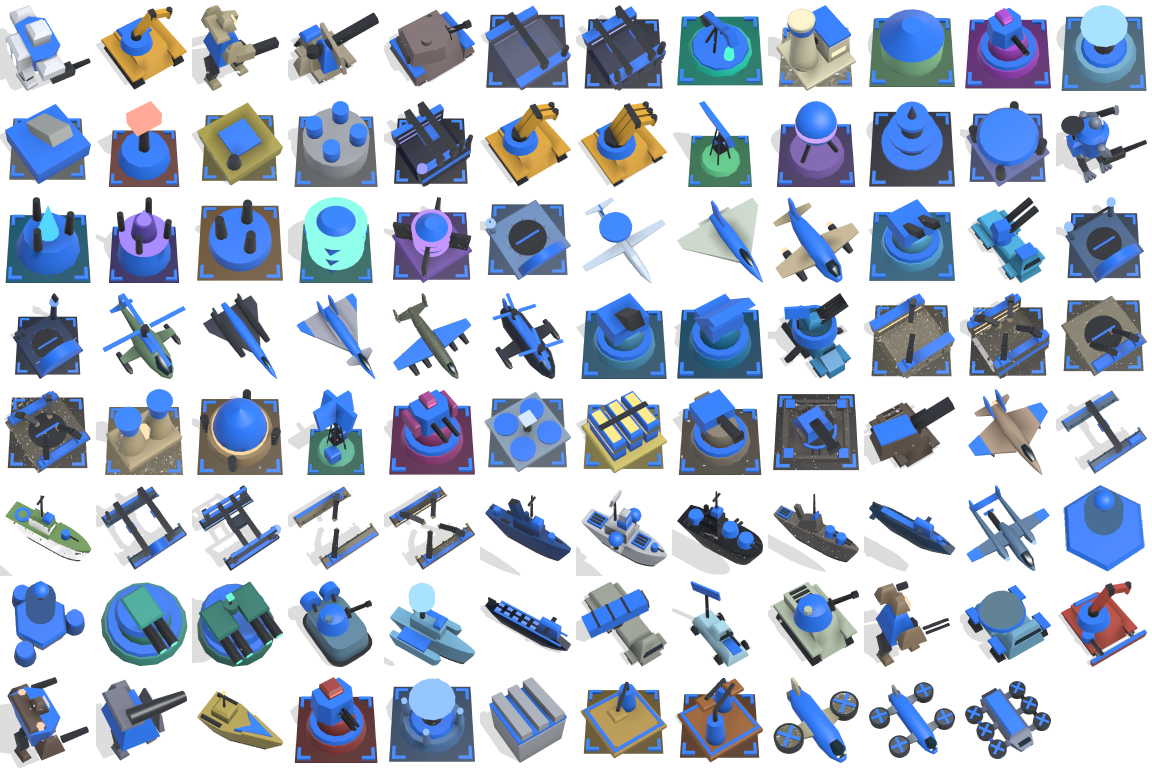
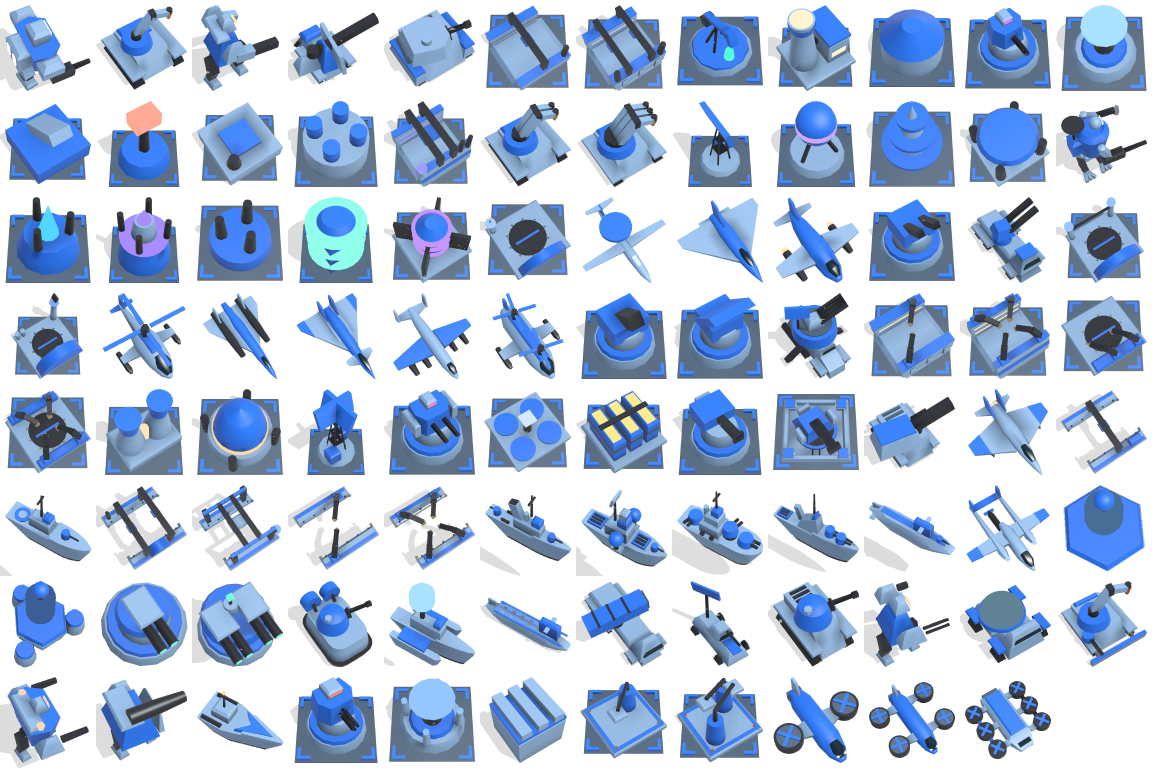
Give every unit one faction hull color, with the team's color on the trim
Every unit and structure's body is now the same light blue, with a little of
the team's color mixed in; the team shows on the trim as before. The hull
colors each family had of its own, and the darkening by tier, are gone, so a
unit is told from another by its shape. Glowing parts keep their own colors.

Removes the three tests that held the old rule (a hull color for each surface
warship, yellow builders and cyan anti-air, engineers one yellow whatever
their tier) and adds one that checks every unit wears the faction's hull
color. The portraits are redrawn to match.

diff --git a/src/render/instances.rs b/src/render/instances.rs
@@ -69,10 +69,11 @@ pub(super) const STRUCTURE_SHARE: f32 = 0.9;
 /// world units, half of it below the ground so that it sits flush on a slope.
 const APRON_WIDTH: f32 = 1.1;
 const APRON_HEIGHT: f32 = 2.4;
-/// Bare armor, before it takes on a little of the team's and the blueprint's color.
-const ARMOR: [f32; 3] = [0.50, 0.52, 0.55];
-/// How much of the blueprint's tint, then the team's color, the armor takes on.
-const ARMOR_TINT: f32 = 0.85;
+/// The faction's hull color, a light blue: every unit and structure's body is this, whatever it
+/// is and whoever's, and the team's color is on its trim. Until 2026-11-23 each kind of unit had
+/// a hull color of its own, a yellow engineer beside a tan tank, which read as many factions.
+const FACTION_HULL: [f32; 3] = [0.62, 0.76, 0.90];
+/// How much of the team's color the hull takes on.
 const ARMOR_TEAM: f32 = 0.06;
 /// How far glowing parts are lifted towards white.
 const GLOW_WHITEN: f32 = 0.25;
@@ -112,20 +113,9 @@ fn mix(from: [f32; 3], to: [f32; 3], share: f32) -> [f32; 3] {
     std::array::from_fn(|channel| from[channel] + (to[channel] - from[channel]) * share)
 }
 
-/// The armor of a unit: grey, with a little of what it is and whose it is.
-fn armor(team: [f32; 3], tint: Option<[f32; 3]>) -> [f32; 3] {
-    mix(tint.map_or(ARMOR, |tint| mix(ARMOR, tint, ARMOR_TINT)), team, ARMOR_TEAM)
-}
-
-/// How much of its armor's brightness a unit keeps by tech level, from none to T3: higher
-/// tiers are heavier and darker, so that a tier reads on the model as the dots read on its icon.
-const TIER_SHADE: [f32; 4] = [1.0, 1.0, 0.88, 0.76];
-
-/// The color of a unit's body: its armor, darkened by its tier unless it is one of those that
-/// keep one color whatever their tier (`UnitLook::tier_shaded`).
-fn hull_of(team: [f32; 3], look: &UnitLook) -> [f32; 3] {
-    let shade = if look.tier_shaded { TIER_SHADE[usize::from(look.tier.min(3))] } else { 1.0 };
-    armor(team, look.tint).map(|channel| channel * shade)
+/// The color of a unit's body: the faction's hull color, with a little of the team's.
+fn hull_of(team: [f32; 3]) -> [f32; 3] {
+    mix(FACTION_HULL, team, ARMOR_TEAM)
 }
 
 /// A color at full brightness, lifted a little towards white, for parts lit from inside.
@@ -317,7 +307,8 @@ pub(super) fn merge_by_id<T>(previous: &[T], current: &[T], id: impl Fn(&T) -> S
 #[derive(Copy, Clone, Debug, PartialEq)]
 pub struct UnitLook {
     pub shape: Shape,
-    /// Blended lightly into the team color, because the shape already shows what it is.
+    /// The color of its glowing parts, such as lights, cores, and tools: the team's, if none. Its
+    /// body is the faction's hull color whatever this is.
     pub tint: Option<[f32; 3]>,
     /// A structure's height, as a share of its width.
     pub height_share: f32,
@@ -330,11 +321,6 @@ pub struct UnitLook {
     /// footprint: zero for its footprint. From above, units are told apart by their outline and
     /// length, so these keep apart some that share a footprint in the simulation.
     pub length: f32,
-    /// Its tech level, which darkens its armor. Zero from `unit_look`; `unit_looks` sets it.
-    pub tier: u8,
-    /// Whether its armor darkens with its tech level (`TIER_SHADE`): every unit's but the
-    /// engineers', which tell their tiers apart by shape and are all one work yellow.
-    pub tier_shaded: bool,
     /// Whether it stands on a concrete foundation: structures on land, but walls. False from
     /// `unit_look`; `unit_looks` sets it.
     pub apron: bool,
@@ -354,13 +340,12 @@ pub struct TurretMount {
     pub aft: bool,
 }
 
-/// The engineers' work yellow, the same at every tier: their tiers show in how many arms they
-/// carry, one to three, and in their size, drawn a little larger than their footprint at T2 and T3.
+/// The work yellow the engineers' tools glow, the same at every tier.
 const ENGINEER_YELLOW: [f32; 3] = [1.00, 0.70, 0.12];
 
 /// Maps a blueprint to its look. Unknown keys fall back to a plain cube.
 pub fn unit_look(key: &str) -> UnitLook {
-    let look = |shape, tint, height_share| UnitLook { shape, tint, height_share, base: None, size: 0.0, length: 0.0, tier: 0, tier_shaded: true, apron: false, turrets: [None; 3] };
+    let look = |shape, tint, height_share| UnitLook { shape, tint, height_share, base: None, size: 0.0, length: 0.0, apron: false, turrets: [None; 3] };
     let turret = |weapon, at, aft| Some(TurretMount { weapon, at, aft });
     match key {
         "command_rig" => UnitLook { base: Some(Shape::CommanderLegs), ..look(Shape::Commander, Some([1.00, 1.00, 1.00]), 1.0) },
@@ -369,10 +354,10 @@ pub fn unit_look(key: &str) -> UnitLook {
         "geothermal_plant" => look(Shape::GeothermalPlant, Some([0.85, 0.60, 0.25]), 0.7),
         "mass_fabricator" => look(Shape::Fabricator, Some([0.40, 0.95, 0.85]), 1.0),
         "mass_fabricator_t3" => look(Shape::FabricatorT3, Some([0.70, 0.45, 1.00]), 0.8),
-        "t2_engineer" => UnitLook { base: Some(Shape::EngineerHull), length: 19.0, tier_shaded: false, ..look(Shape::EngineerT2, Some(ENGINEER_YELLOW), 1.0) },
-        "t3_engineer" => UnitLook { base: Some(Shape::EngineerHull), length: 23.0, tier_shaded: false, ..look(Shape::EngineerT3, Some(ENGINEER_YELLOW), 1.0) },
+        "t2_engineer" => UnitLook { base: Some(Shape::EngineerHull), length: 19.0, ..look(Shape::EngineerT2, Some(ENGINEER_YELLOW), 1.0) },
+        "t3_engineer" => UnitLook { base: Some(Shape::EngineerHull), length: 23.0, ..look(Shape::EngineerT3, Some(ENGINEER_YELLOW), 1.0) },
         "land_factory_t3" => look(Shape::FactoryT3, Some([0.10, 0.10, 0.20]), 0.85),
-        "t1_engineer" => UnitLook { base: Some(Shape::EngineerHull), tier_shaded: false, ..look(Shape::Engineer, Some(ENGINEER_YELLOW), 1.0) },
+        "t1_engineer" => UnitLook { base: Some(Shape::EngineerHull), ..look(Shape::Engineer, Some(ENGINEER_YELLOW), 1.0) },
         "t1_light_walker" => UnitLook { base: Some(Shape::BotLegs), ..look(Shape::Bot, Some([0.78, 0.70, 0.50]), 1.0) },
         "t1_land_scout" => UnitLook { length: 14.0, ..look(Shape::LandScout, Some([0.75, 0.95, 1.00]), 1.0) },
         "t1_medium_tank" => UnitLook { base: Some(Shape::TankHull), ..look(Shape::Tank, Some([0.80, 0.85, 0.70]), 1.0) },
@@ -475,7 +460,6 @@ pub fn unit_looks(blueprints: &BlueprintDb) -> Vec<UnitLook> {
             let look = unit_look(&unit.key);
             UnitLook {
                 size: if look.length > 0.0 { look.length } else { unit.radius.to_num::<f32>() * 2.0 },
-                tier: unit.tier,
                 apron: unit.is_structure() && !unit.on_water && look.shape != Shape::Wall,
                 ..look
             }
@@ -613,7 +597,7 @@ pub fn build_unit_instances(
         };
         let look = looks.get(usize::from(unit.blueprint));
         let tint = look.and_then(|look| look.tint);
-        let hull = look.map_or_else(|| armor(color, None), |look| hull_of(color, look));
+        let hull = hull_of(color);
         let glow = glowing(tint.unwrap_or(color));
         let shape = look.map_or(Shape::Cube, |look| look.shape);
         let size = (f64::from(unit.radius) * RAW_TO_WORLD * 2.0) as f32;
@@ -693,7 +677,7 @@ pub fn build_unit_instances(
                     let full = size * next.height_share;
                     let rising = full * (0.1 + 0.9 * progress);
                     let at = [center[0], center[1], ground + f64::from(rising) * 0.5];
-                    let next_hull = hull_of(color, next).map(|channel| channel * (0.6 + 0.4 * progress));
+                    let next_hull = hull_of(color).map(|channel| channel * (0.6 + 0.4 * progress));
                     let next_trim = color.map(|channel| channel * (0.6 + 0.4 * progress));
                     let grown = size * 1.02;
                     if let Some(base) = next.base {
@@ -714,7 +698,7 @@ pub fn build_unit_instances(
                     let at = [center[0], center[1], ground + f64::from(height * floor + rise * 0.5)];
                     let dim = 0.55 + 0.45 * progress;
                     let made_trim = color.map(|channel| channel * dim);
-                    let made_hull = hull_of(color, made).map(|channel| channel * dim);
+                    let made_hull = hull_of(color).map(|channel| channel * dim);
                     let extent = [made.size, made.size, rise];
                     if let Some(base) = made.base {
                         out.push(base, painted(at, extent, EAST, made_trim, made_hull, made_hull, NO_ICON, eye));
@@ -1024,26 +1008,6 @@ mod tests {
         }
     }
 
-    /// Surface warships look much alike at a glance, long grey hulls, so each is painted a hull
-    /// of its own, for either team, far enough from every other's to tell apart in a button.
-    #[test]
-    fn every_surface_warship_has_a_hull_color_of_its_own() {
-        use crate::sim::components::MoveClass;
-        let db = BlueprintDb::standard();
-        let looks = unit_looks(&db);
-        let ships: Vec<_> = db.iter().filter(|unit| unit.movement == MoveClass::Naval && !unit.is_structure()).collect();
-        assert!(ships.len() >= 5, "the fleet is there");
-        for team in [[0.25, 0.5, 1.0], [1.0, 0.3, 0.25]] {
-            let hulls: Vec<(&str, [f32; 3])> = ships.iter().map(|unit| (unit.key.as_str(), hull_of(team, &looks[usize::from(unit.id.0)]))).collect();
-            for (index, (first, a)) in hulls.iter().enumerate() {
-                for (second, b) in &hulls[index + 1..] {
-                    let distance = (0..3).map(|channel| (a[channel] - b[channel]).powi(2)).sum::<f32>().sqrt();
-                    assert!(distance > 0.08, "{first} and {second} have hulls too alike: {a:?} and {b:?}");
-                }
-            }
-        }
-    }
-
     /// A unit's length as drawn, and how long it is for its width, from above: its base and
     /// what turns on it, facing the same way.
     fn footprint(set: &super::super::meshes::MeshSet, look: &UnitLook) -> (f32, f32) {
@@ -1264,36 +1228,30 @@ mod tests {
         assert!(unarmed.is_empty(), "these shell the ground but show no gun: {unarmed:?}");
     }
 
-    /// The engineers are one work yellow at every tier, for either team: their tiers show in
-    /// their shapes, not their color.
+    /// Every finished unit and structure is drawn in the faction's one hull color, for either
+    /// team, with only a little of the team's in it: what a unit is shows in its shape, and whose
+    /// it is in its trim.
     #[test]
-    fn engineers_are_one_color_whatever_their_tier() {
+    fn every_unit_wears_the_factions_hull_color() {
         let db = BlueprintDb::standard();
         let looks = unit_looks(&db);
-        for team in [BLUE, RED] {
-            let hulls: Vec<[f32; 3]> = ["t1_engineer", "t2_engineer", "t3_engineer"].iter().map(|key| hull_of(team, &looks[usize::from(db.id(key).0)])).collect();
-            assert!(hulls.iter().all(|hull| *hull == hulls[0]), "the engineers' hulls differ: {hulls:?}");
-        }
-    }
-
-    /// A unit's role shows in its color, whoever's it is: mobile builders are work yellow and
-    /// orange, and what only shoots at aircraft, on the ground or the water, is a cool cyan.
-    #[test]
-    fn builders_are_work_yellow_and_anti_air_is_cyan() {
-        use crate::sim::blueprints::Targets;
-        let db = BlueprintDb::standard();
-        let looks = unit_looks(&db);
-        for team in [BLUE, RED] {
-            for unit in db.iter() {
-                let hull = hull_of(team, &looks[usize::from(unit.id.0)]);
-                let builds_structures = unit.builds.iter().any(|&made| db.get(made).is_structure());
-                if builds_structures && !unit.is_structure() && !unit.is_commander() && unit.class != crate::sim::blueprints::UnitClass::FieldRig {
-                    assert!(hull[0] > hull[2] + 0.05, "{} builds, but its hull is not warm: {hull:?}", unit.key);
-                }
-                if !unit.is_air() && unit.weapon.is_some_and(|weapon| weapon.targets == Targets::Air) {
-                    assert!(hull[2] > hull[0] + 0.05 && hull[1] > hull[0], "{} shoots at aircraft, but its hull is not cyan: {hull:?}", unit.key);
+        for (team, color) in [(Team::Blue, BLUE), (Team::Red, RED)] {
+            let expected = bytes(hull_of(color));
+            for blueprint in db.iter().filter(|blueprint| blueprint.class != crate::sim::blueprints::UnitClass::Ammo) {
+                let mut drawn = unit(1, 0);
+                drawn.blueprint = blueprint.id.0;
+                drawn.team = team;
+                drawn.is_structure = blueprint.is_structure();
+                let mut out = InstanceBatches::default();
+                build_unit_instances(&[], &[drawn], 0.0, [0.0; 3], &[], &looks, &[], &mut Motion::new(), &mut out);
+                let look = unit_look(&blueprint.key);
+                for shape in look.base.into_iter().chain([look.shape]) {
+                    let instance = out.shape(shape).first().unwrap_or_else(|| panic!("{} is drawn", blueprint.key));
+                    assert_eq!(instance.hull[..3], expected[..3], "{}'s hull is not the faction's", blueprint.key);
                 }
             }
+            let [red, green, blue] = hull_of(color);
+            assert!(blue > red + 0.15 && blue > green && green > red, "the hull is light blue for either team: {:?}", hull_of(color));
         }
     }
 
@@ -1497,7 +1455,7 @@ mod tests {
     }
 
     #[test]
-    fn units_have_grey_armor_and_glow_only_once_built() {
+    fn units_wear_armor_apart_from_their_team_color_and_glow_only_once_built() {
         let db = BlueprintDb::standard();
         let looks = unit_looks(&db);
         let mut generator = unit(1, 0);
